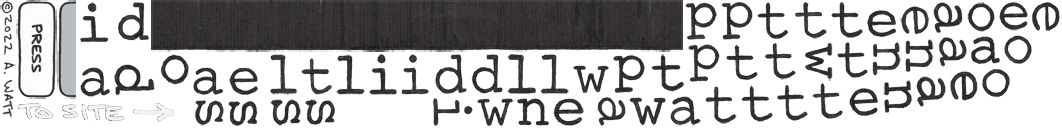
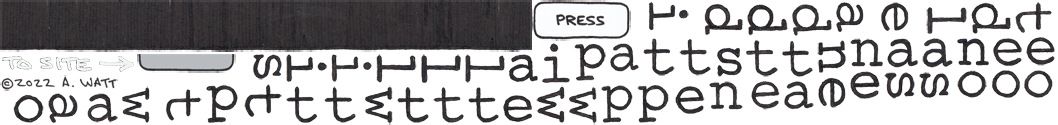
get header working, change container class name

diff --git a/src/index.js b/src/index.js
@@ -2,11 +2,11 @@ import { button } from './scripts/button.js';
 import { copyright } from './scripts/copyright.js';
 import { showComponent } from './scripts/displayUtils.js';
 import { anagram, goToNewAnagram, goToSiteTitle } from './scripts/anagram.js';
-import { Header } from './scripts/header.js';
+import { Header } from './scripts/Header.js';
 import { spritesheetLocation, minStageWidth } from './scripts/assets.js';
 import * as PIXI from './scripts/pixi.js';
 
-let centerPoint, footerRight, hdr, timeoutId, sheet, loader;
+let centerPoint, footerRight, headerCenter, header, timeoutId, sheet, loader;
 
 function onSwapPress() {
 	if (timeoutId) {
@@ -32,22 +32,29 @@ function changePageTitle(phrase) {
 
 function createLetterSprites() {
 	const ana = anagram(sheet);
-	ana.position.set(0, 25);
+	ana.position.set(0, 45);
 	centerPoint.addChild(ana);
-	showComponent(ana, 1, 0, 0);
+	showComponent(ana, 1, 0, 20);
 }
 
 function createButton() {
 	const swapButton = button(sheet, onSwapPress);
-	swapButton.position.set(0, 125);
+	swapButton.position.set(0, 135);
 	centerPoint.addChild(swapButton);
-	showComponent(swapButton, 1, 0.5, 100);
+	showComponent(swapButton, 1, 0.5, 110);
 }
 
 function createCopyright() {
 	const copy = copyright(sheet);
 	footerRight.addChild(copy);
 	showComponent(copy, 1, 0.5);
+}
+
+function createHeader() {
+	header = new Header(sheet, window.innerWidth);
+	header.position.set(0, 0);
+	headerCenter.addChild(header);
+	// showComponent(header, 0.5, 1.5, 0);
 }
 
 function onAppProgress(e) {
@@ -65,16 +72,15 @@ function onAppLoaded(e) {
 	createLetterSprites();
 	createButton();
 	createCopyright();
-	hdr = new Header(sheet, window.innerWidth);
-	app.stage.addChild(hdr);
+	createHeader();
 	onResize();
 }
 
 function initApp() {
 	window.addEventListener('resize', onResize);
-	let app = new PIXI.Application({ resolution: 1, roundPixels: true, backgroundColor: 0xf1f4f9 });
+	let app = new PIXI.Application({ resolution: 1, roundPixels: true, backgroundColor: 0xffffff });
 	// PIXI.settings.SCALE_MODE = PIXI.SCALE_MODES.LINEAR;
-	const cont = document.querySelector('.container');
+	const cont = document.querySelector('.wp-home-container');
 	cont.appendChild(app.view);
 	return app;
 }
@@ -85,6 +91,9 @@ function addContainers() {
 
 	footerRight = new PIXI.Container();
 	app.stage.addChild(footerRight);
+
+	headerCenter = new PIXI.Container();
+	app.stage.addChild(headerCenter);
 }
 
 let app = initApp();
@@ -103,18 +112,24 @@ function preload() {
 function onResize() {
 	const w = window.innerWidth;
 	const h = window.innerHeight;
+	const halfW = Math.ceil(w / 2);
+	const halfH = Math.ceil(h / 2);
 	if (app) {
 		app.renderer.resize(w, h);
 	}
 
 	if (centerPoint) {
-		centerPoint.position.set(0.5 * w, 0.5 * h);
+		centerPoint.position.set(halfW, halfH);
 	}
 	if (footerRight) {
 		footerRight.position.set(w, h);
 	}
-	if (hdr) {
-		hdr.resize(w);
+	if (headerCenter) {
+		headerCenter.position.set(halfW, 0);
+	}
+
+	if (header) {
+		header.resize(w);
 	}
 
 	// hacky way using constant from assets.js to keep anagram scaled to fit on screen

diff --git a/src/scripts/header.js b/src/scripts/header.js
@@ -4,12 +4,33 @@ export class Header extends PIXI.Container {
 	constructor(textureSheet, width) {
 		super();
 		const MENU_BAR_HEIGHT = 50;
+
 		const texBg = textureSheet.textures['menubar_bg.png'];
-		this.rectangle = new PIXI.TilingSprite(texBg, width, MENU_BAR_HEIGHT);
-		this.addChild(this.rectangle);
+		this.bg = new PIXI.TilingSprite(texBg, width, MENU_BAR_HEIGHT);
+		this.addChild(this.bg);
+		const texButton = textureSheet.textures['menubar_site_btn.png'];
+		this.siteButton = new PIXI.Sprite(texButton);
+		this.addChild(this.siteButton);
+		this.siteButton.anchor.set(1, 0);
+		this.siteButton.interactive = true;
+		this.siteButton.buttonMode = true;
+		this.siteButton.defaultCursor = 'pointer';
+		this.siteButton.on('mouseup', this.onButtonUp).on('mouseupoutside', this.onButtonUp).on('touchend', this.onButtonUp).on('touchendoutside', this.onButtonUp);
+		this.resize(width);
 	}
 
 	resize(width) {
-		this.rectangle.width = width;
+		const half = Math.ceil(width / 2);
+		if (this.bg) {
+			this.bg.width = width + 10;
+			this.bg.position.set(-1 * half, 0);
+		}
+		if (this.siteButton) {
+			this.siteButton.position.set(half, 0);
+		}
+	}
+
+	onButtonUp() {
+		window.location = 'http://www.wastedpotential.com';
 	}
 }

diff --git a/src/index.html b/src/index.html
@@ -3,17 +3,14 @@
   <head>
     <style>
         html, body {
-            position: relativ;
+            position: relative;
             height: 100%;
             width: 100%;
             margin: 0;
             padding: 0;
             overflow: hidden; /* prevent scrollbars */
         }
-        .container {
-            position: absolute;
-        }
-        .menu {
+        .wp-home-container {
             position: absolute;
         }
     </style>
@@ -24,6 +21,6 @@
 
   </head>
   <body>
-      <div class="container"></div>
+      <div class="wp-home-container"></div>
   </body>
 </html>
